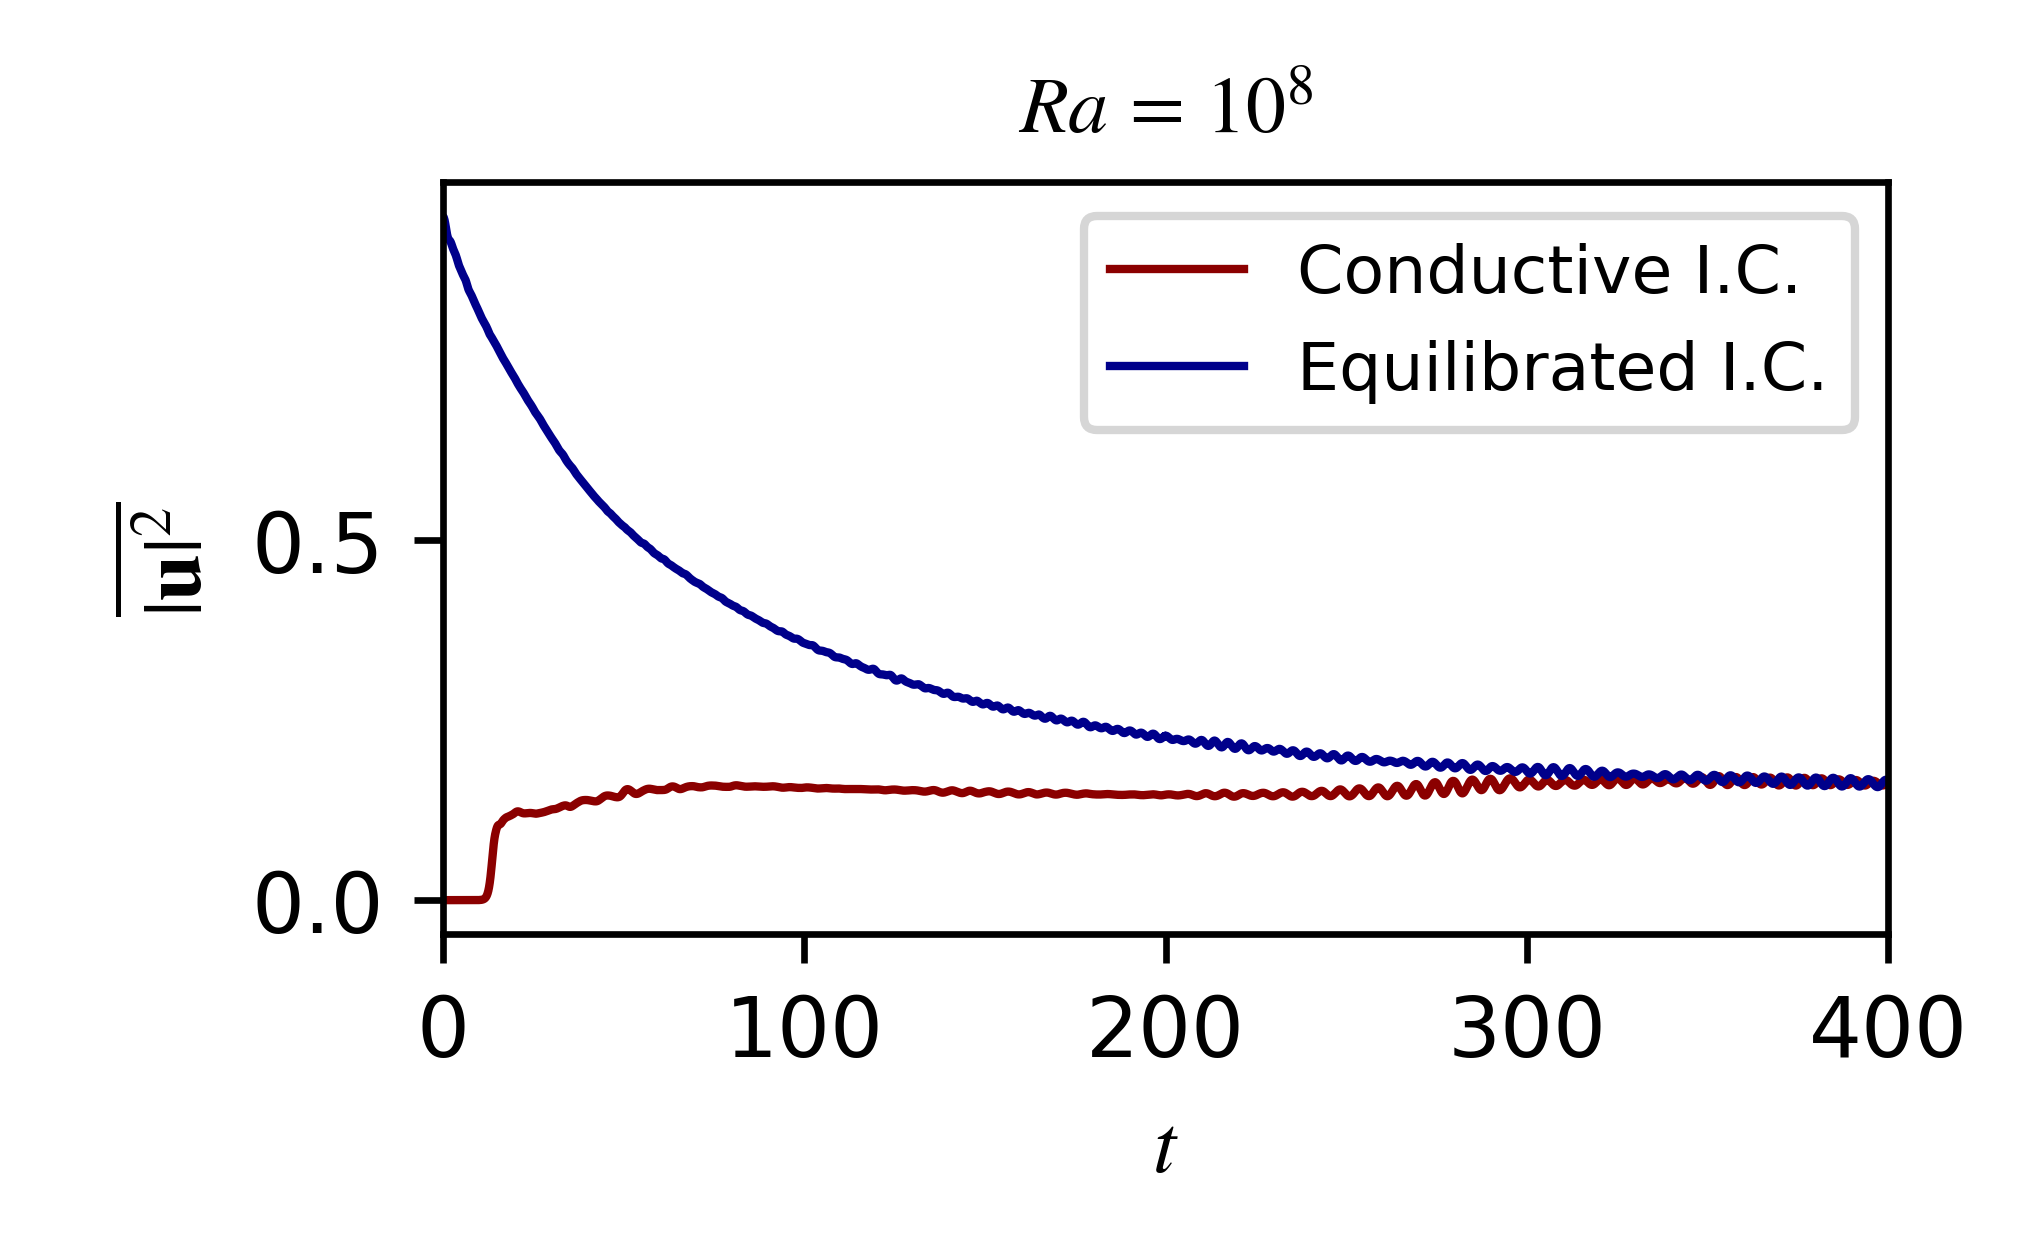
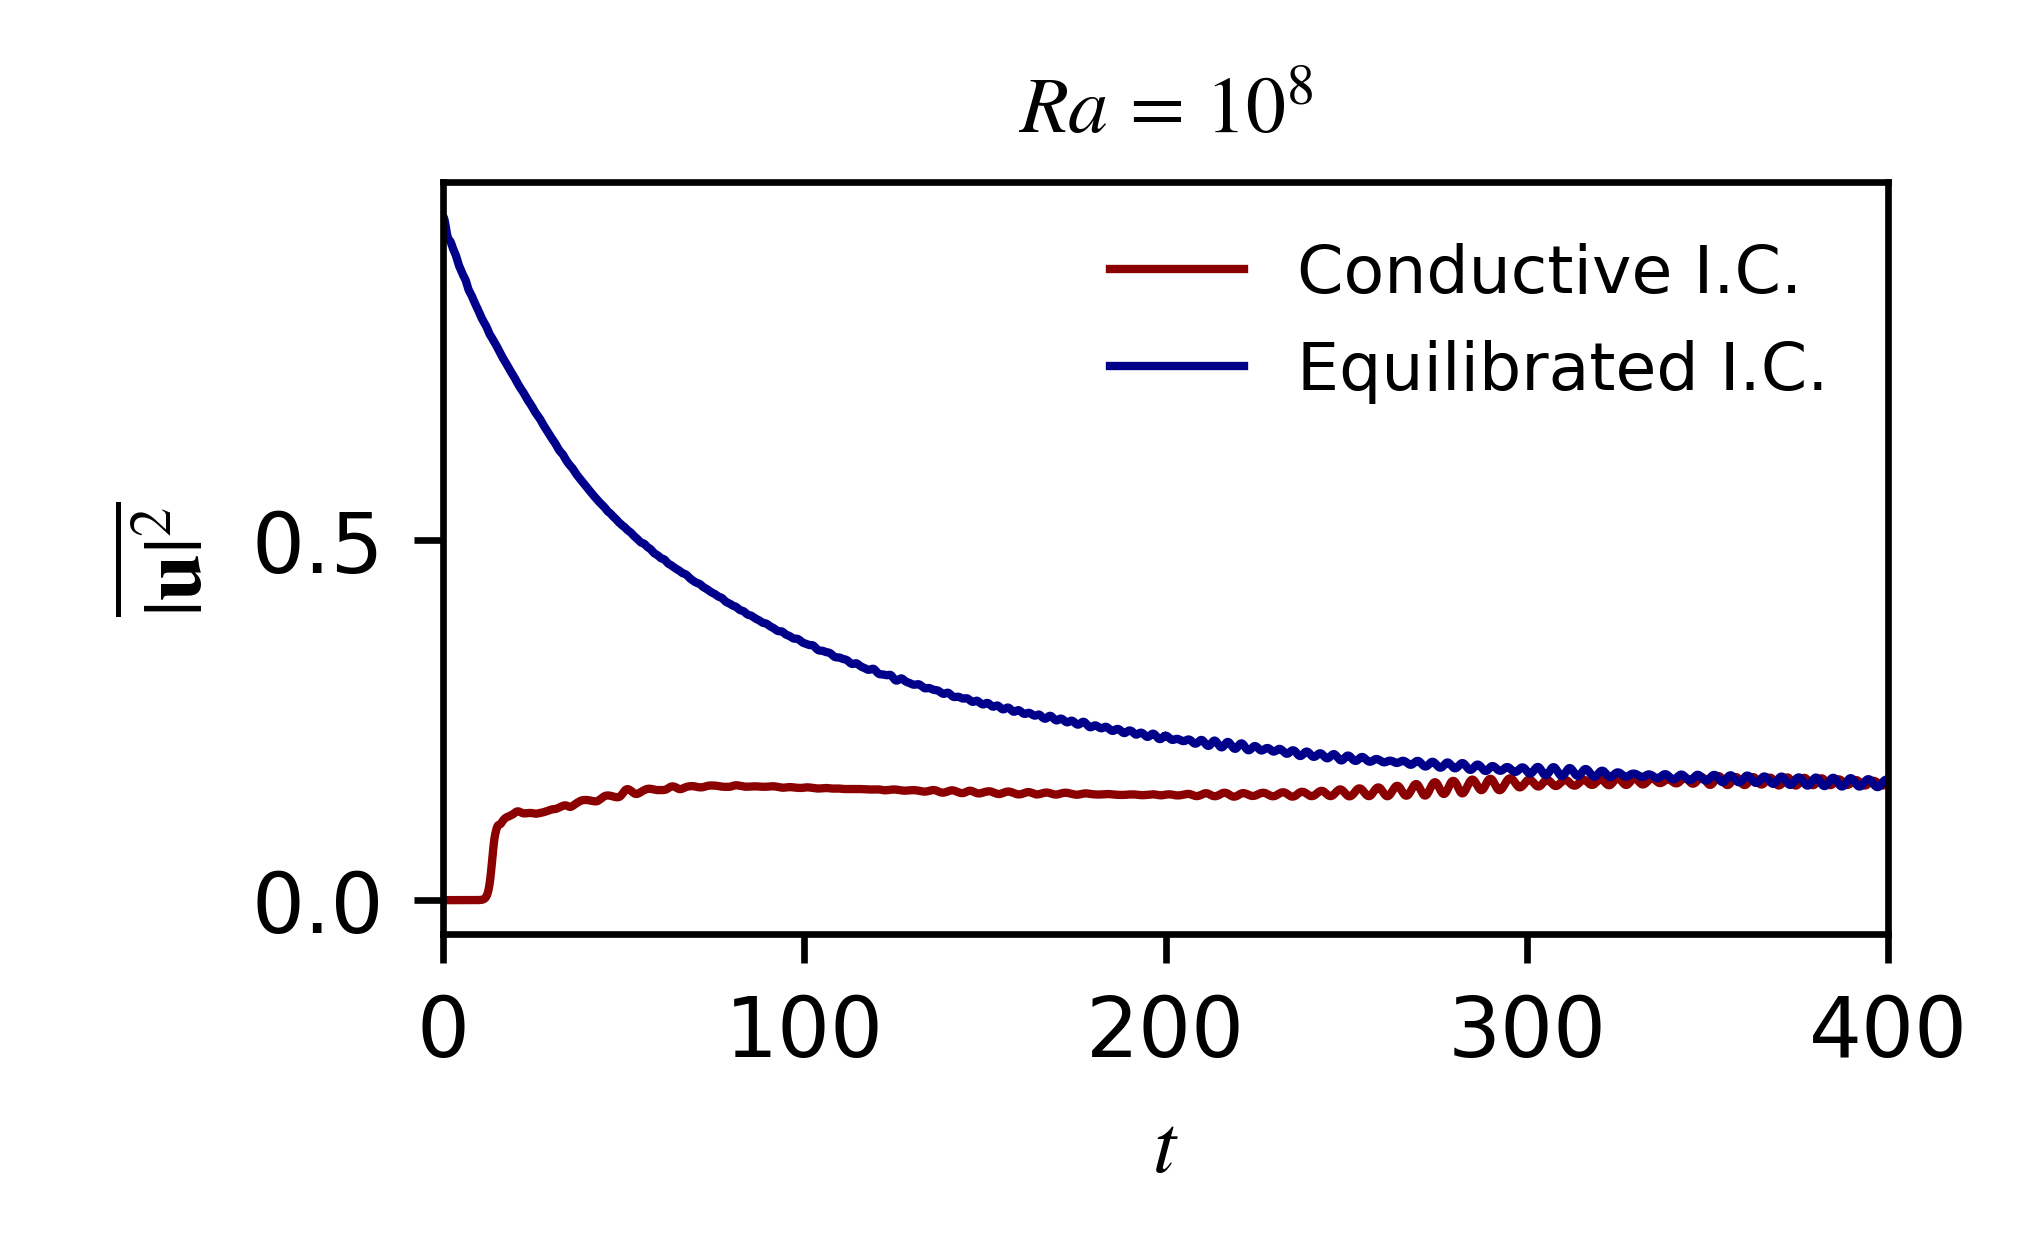
plot legends: frames off

Changed region(s): [[0.525, 0.1548, 0.9265, 0.3405], [0.5559, 0.3405, 0.8956, 0.3714]]

diff --git a/plot_ke.py b/plot_ke.py
@@ -79,7 +79,7 @@ if __name__ == "__main__":
         plt.plot(sim_times_ar, ke_ar, color='darkred', label = 'Conductive I.C.')
         plt.plot(sim_times_ar_eq, ke_ar_eq, color='darkblue', label = 'Equilibrated I.C.')
         plt.xlim(0, 400)
-        plt.legend()
+        plt.legend(frameon=False)
         plt.xlabel(r'$t$')
         plt.ylabel(r'$\overline{|\mathbf{u}|^2}$')
         plt.title(r'$Ra \, = \, 10^8$')

diff --git a/plot_nu.py b/plot_nu.py
@@ -111,7 +111,7 @@ if __name__ == "__main__":
         plt.plot(sim_times_ar, nu_ar, color='darkred', label = 'Conductive I.C.')
         plt.plot(sim_times_ar_eq, nu_ar_eq, color='darkblue', label = 'Equilibrated I.C.')
         plt.xlim(0, 100)
-        plt.legend()
+        plt.legend(frameon=False)
         plt.xlabel(r'$t$')
         plt.ylabel(r'$Nu$')
         plt.title(r'$Ra \, = \, 10^8$')
